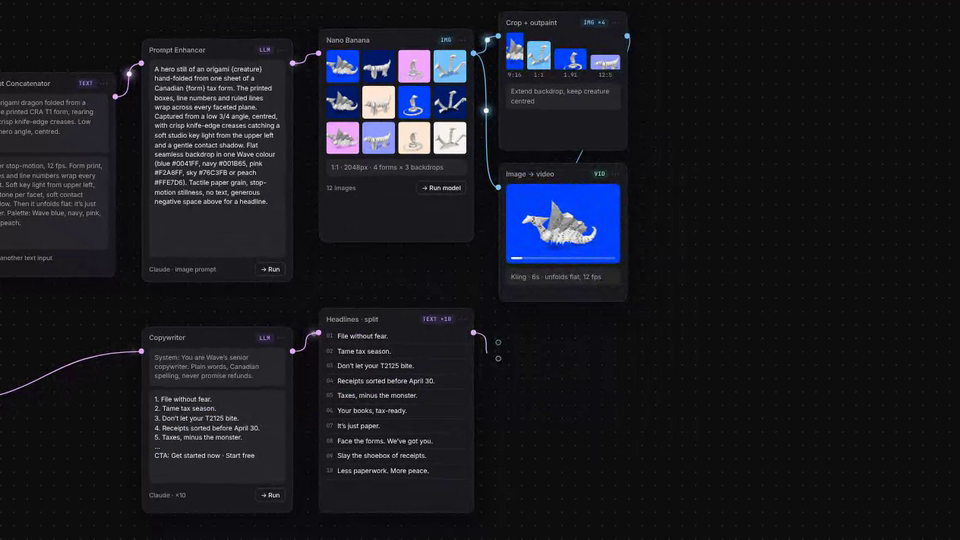
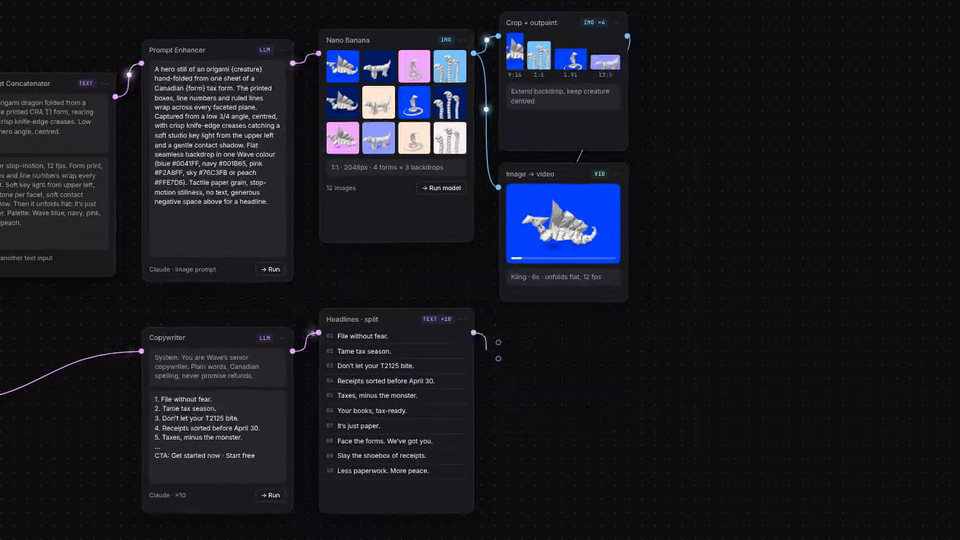
Wave Tax Weave Walkthrough: accent phrases, cobra heads, unfolding ad loops
Accent colour now covers each headline's closing phrase, balanced lines with
no widows; hydra is three cobra heads rising out of the frame; sharper dragon;
step labels removed and Figma Buzz renamed Figma; bigger reel dragon bleeding
off the right with the wordmark top right; every in-market ad pauses, unfolds
and pauses again.

Claude-Session: https://claude.ai/code/session_016rpgubrVaU6ENrPwrTuR8a

diff --git a/wave-tax-weave-walkthrough/index.html b/wave-tax-weave-walkthrough/index.html
@@ -136,7 +136,9 @@ html body nav.back:not(.sb-panel):not(:has(>div))>a,html body nav.back:not(.sb-p
 .ad img.art{position:absolute;left:50%;top:50%;transform:translate(-50%,-50%);display:block}
 .ad .wm{position:absolute;font-weight:800;letter-spacing:-.04em}
 .ad .h{position:absolute;font-family:var(--serif);font-weight:500;letter-spacing:-.025em;line-height:.96}
-.ad .h em{font-style:italic}
+.ad .h em{font-style:italic;white-space:nowrap}
+.ad .h{text-wrap:balance}
+.ad canvas.art{position:absolute;left:50%;top:50%;transform:translate(-50%,-50%);display:block}
 .ad .cta{position:absolute;font-weight:700;border-radius:999px;white-space:nowrap}
 
 /* ---------- 3 · Ads ---------- */
@@ -215,7 +217,6 @@ html body nav.back:not(.sb-panel):not(:has(>div))>a,html body nav.back:not(.sb-p
 
 <!-- 1 · Weave flow -->
 <section class="scene" id="s1">
-  <div class="cap"><b>01</b><span>Figma Weave · brief → prompts → images + copy → 480 assets</span></div>
   <div id="w1"><svg id="wires" width="1600" height="900"></svg></div>
 </section>
 
@@ -223,12 +224,12 @@ html body nav.back:not(.sb-panel):not(:has(>div))>a,html body nav.back:not(.sb-p
 <section class="scene" id="s2">
   <div class="fg-top"><div class="tools"><i></i><i></i><i></i><i></i></div><div class="file"><span>Wave Brand / </span>Tax Season 2027 · Paid Social</div><div class="av">KG</div><div class="share">Share</div></div>
   <div class="fg-l">
-    <div class="fg-sec"><h5>Pages <span>+</span></h5><div class="lay p">Cover</div><div class="lay p on">🔶 Buzz output · File without fear</div><div class="lay p">Templates</div><div class="lay p">Weave exports</div></div>
+    <div class="fg-sec"><h5>Pages <span>+</span></h5><div class="lay p">Cover</div><div class="lay p on">🔶 Output · File without fear</div><div class="lay p">Templates</div><div class="lay p">Weave exports</div></div>
     <div class="fg-sec" id="layers"><h5>Layers</h5></div>
   </div>
-  <div id="fgc"><div class="cap lt"><b>02</b><span>Figma Buzz · sheet × templates → every combination</span></div><div id="w2"></div></div>
+  <div id="fgc"><div id="w2"></div></div>
   <div class="fg-r">
-    <div class="fg-sec"><h5>Figma Buzz <span>Bulk create</span></h5>
+    <div class="fg-sec"><h5>Figma <span>Bulk create</span></h5>
       <div class="buzzrow">Data <b>wave_tax_weave.csv</b></div>
       <div class="buzzrow">Rows <b>12 art × 10 lines</b></div>
       <div class="buzzrow">Templates <b>4 placements</b></div>
@@ -246,7 +247,6 @@ html body nav.back:not(.sb-panel):not(:has(>div))>a,html body nav.back:not(.sb-p
 
 <!-- 3 · In market -->
 <section class="scene" id="s3">
-  <div class="cap lt"><b>03</b><span>In market · one variant per placement</span></div>
   <div class="s3copy"><div class="k" id="k3">Placement 1 / 4</div><h2 id="h3">Instagram Reel</h2><p id="p3"></p><dl id="dl3"></dl></div>
   <div class="tabs" id="tabs3"></div>
   <div class="mk" id="mk"></div>
@@ -311,11 +311,12 @@ function tube(f, v, w, wn, open = 0.86) {
   return V.add(f.p, V.add(V.mul(f.b, Math.cos(phi) * w), V.mul(f.n, Math.sin(phi) * (wn == null ? w : wn))));
 }
 const pleat = (i) => (i % 2 ? 1.07 : 0.93);
+const pleatX = (i) => (i % 2 ? 1.2 : 0.8);
 
 /* ---------- creatures ---------- */
 const CREATURES = {
   dragon: {
-    nu: 26, nv: 12, unfoldFrom: [1, 0.5],
+    nu: 26, nv: 8, unfoldFrom: [1, 0.5],
     init() {
       this.sp = spine([[-1.18, 1.18, 0.12], [-1.02, 1.24, 0.1], [-0.82, 1.05, 0.06], [-0.6, 0.66, 0.02], [-0.3, 0.42, 0], [0.12, 0.38, 0], [0.5, 0.3, -0.04], [0.86, 0.2, -0.02], [1.16, 0.3, 0.05], [1.26, 0.6, 0.1], [1.08, 0.74, 0.12]], [0, 0, 1]);
     },
@@ -327,8 +328,8 @@ const CREATURES = {
       return mix(0.18, 0.012, (u - 0.6) / 0.4);
     },
     pose(u, v, i, j, cu, cv) {
-      const sp = this.sp, wingU = cu > 0.32 && cu < 0.62, band = 0.22;
-      let w = this.width(u) * pleat(i);
+      const sp = this.sp, wingU = cu > 0.32 && cu < 0.62, band = 0.26;
+      let w = this.width(u) * pleatX(i);
       const f = sp.at(u);
       if (wingU && (cv < band || cv > 1 - band)) {
         const left = cv < band, a = left ? (band - v) / band : (v - (1 - band)) / band;
@@ -339,7 +340,7 @@ const CREATURES = {
         d = V.norm(d);
         const len = (1.22 - 0.5 * c) * (0.82 + 0.18 * Math.abs(Math.cos(c * Math.PI * 2.5)));
         let p = V.add(root, V.mul(d, a * len));
-        p = V.add(p, V.mul([0, 0, left ? 1 : -1], (i % 2 ? 0.06 : -0.03) * a)); // fan pleats
+        p = V.add(p, V.mul([0, 0, left ? 1 : -1], (i % 2 ? 0.13 : -0.07) * a)); // fan pleats, sharper
         return p;
       }
       let p = tube(f, v, w);
@@ -347,7 +348,7 @@ const CREATURES = {
       const ridge = 1 - Math.min(1, Math.abs(v - 0.5) / 0.09);
       if (ridge > 0 && j === this.nv / 2) {
         if (i === 3) p = V.add(p, V.add(V.mul(f.b, 0.24), V.mul(f.t, 0.2)));
-        else if (i > 7 && i < 22 && i % 2 === 0) p = V.add(p, V.mul(f.b, 0.12 * (1 - Math.abs(i - 14) / 10)));
+        else if (i > 7 && i < 22 && i % 2 === 0) p = V.add(p, V.mul(f.b, 0.2 * (1 - Math.abs(i - 14) / 12)));
       }
       if (i === 0) p = V.add(p, V.mul(f.t, -0.08)); // pointed snout
       return p;
@@ -382,29 +383,18 @@ const CREATURES = {
   hydra: {
     nu: 26, nv: 15, unfoldFrom: [1, 0.5],
     init() {
-      this.necks = [
-        spine([[-1.08, 1.02, 0.42], [-0.92, 1.12, 0.3], [-0.78, 0.92, 0.2], [-0.56, 0.62, 0.12], [-0.3, 0.4, 0.06]], [0, 0, 1]),
-        spine([[0.14, 1.62, 0.5], [0.06, 1.6, 0.32], [0.02, 1.3, 0.16], [0.04, 0.85, 0.05], [0.02, 0.5, -0.02]], [1, 0, 0]),
-        spine([[1.1, 1.0, 0.4], [0.96, 1.1, 0.28], [0.8, 0.88, 0.16], [0.58, 0.6, 0.06], [0.32, 0.4, 0.02]], [0, 0, 1]),
-      ];
+      // three cobra heads facing left; their bodies run straight down off the bottom of the frame
+      const neck = (x, y, z, lean) => spine([[x - 0.16, y + 0.02, z], [x, y + 0.07, z], [x + 0.14, y - 0.08, z], [x + 0.2 + lean, y - 0.45, z], [x + 0.14 + lean, y - 0.95, z], [x + 0.2 + lean, -0.9, z]], [0, 0, 1]);
+      this.necks = [neck(-0.95, 1.05, 0.25, 0.05), neck(-0.2, 1.5, 0, -0.04), neck(0.55, 1.12, -0.25, 0.06)];
     },
     pose(u, v, i, j, cu, cv) {
-      const split = 0.58;
-      if (cu < split) {
-        const k = Math.min(2, Math.floor(cv * 3)), vv = clamp((v - k / 3) * 3), s = clamp(u / split);
-        const f = this.necks[k].at(s);
-        let w = (s < 0.06 ? mix(0.03, 0.1, s / 0.06) : s < 0.18 ? 0.105 : mix(0.075, 0.11, (s - 0.18) / 0.82)) * pleat(i);
-        let p = tube(f, vv, w, w, 0.84);
-        const jj = j - k * 5;
-        if (i === 3 && jj === 2) p = V.add(p, V.add(V.mul(f.b, 0.18), V.mul(f.t, 0.16)));
-        if (i === 0) p = V.add(p, V.mul(f.t, -0.06));
-        return p;
-      }
-      // body: a pleated mound behind the necks
-      const a = (u - split) / (1 - split), x = (v - 0.5) * 1.55;
-      const h = 0.48 * Math.pow(Math.sin(Math.PI * clamp(v * 0.9 + 0.05)), 0.7) * (1 - a * 0.75);
-      const pl = (i % 2 ? 0.05 : -0.04) * (1 - a);
-      return [x * (1 - 0.15 * a), h + pl, 0.02 - a * 0.85];
+      const k = Math.min(2, Math.floor(cv * 3)), vv = clamp((v - k / 3) * 3), s = u;
+      const f = this.necks[k].at(s);
+      const hood = s > 0.06 && s < 0.26 ? mix(0.11, 0.24, Math.sin(((s - 0.06) / 0.2) * Math.PI)) : 0;
+      let w = (s < 0.05 ? mix(0.035, 0.1, s / 0.05) : s < 0.3 ? 0.1 : 0.12) * pleatX(i);
+      let p = tube(f, vv, Math.max(w, hood), w, 0.84);
+      if (i === 0) p = V.add(p, V.mul(f.t, -0.07));
+      return p;
     },
   },
   tiger: {
@@ -689,27 +679,28 @@ function liveScene(cv,a,extra){return new Origami.Scene(cv,Object.assign(OPT(a),
 function unfoldK(t,hold,dur){return clamp((Math.floor(t*12)/12-hold)/dur);}
 
 /* campaign copy */
-const HEADR=['File without *fear*.','Tame tax *season*.','Don’t let your T2125 *bite*.','Receipts sorted before *April 30*.','Taxes, minus the *monster*.','Your books, *tax-ready*.','It’s just *paper*.','Face the forms. We’ve *got you*.','Slay the shoebox of *receipts*.','Less paperwork. More *peace*.'];
-const HEAD=HEADR.map(h=>h.replace(/\*/g,''));
+const HEADR=['File without *fear.*','Tame tax *season.*','Don’t let your T2125 *bite.*','Receipts sorted before *April 30.*','Taxes, minus the *monster.*','Your books, *tax‑ready.*','It’s just *paper.*','Face the forms. *We’ve got you.*','Slay the shoebox of *receipts.*','Less paperwork. *More peace.*'];
+const HEAD=HEADR.map(h=>h.replace(/\*/g,'').replace(/‑/g,'-'));
 const rich=(h,c)=>h.replace(/\*([^*]+)\*/g,`<em style="color:${c}">$1</em>`);
 const CTA=['Get tax-ready','Get tax-ready','Start free','Get tax-ready','Start free','Learn more','Learn more','Start free','Get tax-ready','Learn more'];
 
 /* ad template: fills a box of w×h with art, headline, wordmark and CTA */
-function adHTML(ai,hi,w,h){
+function adHTML(ai,hi,w,h,live){
+  const IMG=(st,aw)=>live?`<canvas class="art" data-live="${ai}" style="${st};height:${aw/1.3}px"></canvas>`:`<img class="art" data-art="${ai}" src="${ART[ai].src}" style="${st}">`;
   const a=ART[ai],r=w/h,fg=a.dark?'#fff':'#001b65',em=a.dark?'#e8aaff':'#0041ff',ctaBg=a.dark?'#e8aaff':'#0041ff',ctaFg=a.dark?'#001b65':'#fff',H=rich(HEADR[hi],em);
   const u=Math.min(w,h);let s='';
   if(r<.8){ // vertical 9:16
-    const aw=w*1.3;s+=`<img class="art" data-art="${ai}" src="${a.src}" style="width:${aw}px;top:${h*.6}px">`;
-    s+=`<div class="wm" style="left:${w*.08}px;top:${w*.08}px;font-size:${w*.085}px;color:${fg}">wave</div>`;
+    const aw=w*1.3;s+=IMG(`width:${aw}px;top:${h*.6}px;left:${w*.56}px`,aw);
+    s+=`<div class="wm" style="right:${w*.08}px;top:${w*.08}px;font-size:${w*.085}px;color:${fg}">wave</div>`;
     s+=`<div class="h" style="left:${w*.08}px;right:${w*.08}px;top:${h*.14}px;font-size:${w*.125}px;color:${fg}">${H}</div>`;
     s+=`<div class="cta" style="left:${w*.08}px;bottom:${h*.05}px;font-size:${w*.055}px;padding:${w*.035}px ${w*.06}px;background:${ctaBg};color:${ctaFg}">${CTA[hi]}</div>`;
   }else if(r<1.3){ // square
-    s+=`<img class="art" data-art="${ai}" src="${a.src}" style="width:${w*1.25}px;top:${h*.63}px;left:${w*.52}px">`;
+    s+=IMG(`width:${w*1.35}px;top:${h*.62}px;left:${w*.6}px`,w*1.35);
     s+=`<div class="wm" style="right:${w*.07}px;top:${w*.07}px;font-size:${w*.06}px;color:${fg}">wave</div>`;
     s+=`<div class="h" style="left:${w*.07}px;width:${w*.66}px;top:${w*.07}px;font-size:${w*.085}px;color:${fg}">${H}</div>`;
     s+=`<div class="cta" style="left:${w*.07}px;bottom:${w*.07}px;font-size:${w*.038}px;padding:${w*.025}px ${w*.045}px;background:${ctaBg};color:${ctaFg}">${CTA[hi]}</div>`;
   }else{ // wide 1.91 / 12:5
-    s+=`<img class="art" data-art="${ai}" src="${a.src}" style="width:${h*1.75}px;left:${w*.73}px;top:${h*.5}px">`;
+    s+=IMG(`width:${h*1.9}px;left:${w*.75}px;top:${h*.52}px`,h*1.9);
     s+=`<div class="wm" style="left:${h*.1}px;top:${h*.1}px;font-size:${h*.1}px;color:${fg}">wave</div>`;
     s+=`<div class="h" style="left:${h*.1}px;width:${w*.48}px;top:${h*.3}px;font-size:${h*(r>2.2?.15:.13)}px;color:${fg}">${H}</div>`;
     s+=`<div class="cta" style="left:${h*.1}px;bottom:${h*.1}px;font-size:${h*.065}px;padding:${h*.04}px ${h*.075}px;background:${ctaBg};color:${ctaFg}">${CTA[hi]}</div>`;
@@ -740,7 +731,7 @@ const NODES={
   rs:{x:1160,y:52,w:208,h:224,t:'Crop + outpaint',tag:'IMG ×4',ti:'img',html:'<div class="sizes" id="sizes"></div><div class="field dim" style="margin-top:9px;padding:6px 8px">Extend backdrop, keep creature centred</div>'},
   vid:{x:1160,y:296,w:208,h:224,t:'Image → video',tag:'VID',ti:'vid',html:'<div class="vbox" id="vid"><canvas></canvas><div class="bar"><i></i></div></div><div class="field dim" style="margin-top:8px;padding:6px 8px">Kling · 6s · unfolds flat, 12 fps</div>'},
   sheet:{x:1160,y:546,w:208,h:314,t:'Export → sheet',tag:'CSV',html:'<table class="sheet" id="sheet"></table>'},
-  buzz:{x:1400,y:250,w:176,h:340,t:'Send to Figma',tag:'BUZZ',html:'<div class="buzz"><div class="fig"><span class="figlogo"><i style="background:#f24e1e;border-radius:6px 0 0 6px"></i><i style="background:#ff7262;border-radius:0 6px 6px 0"></i><i style="background:#a259ff;border-radius:6px 0 0 6px"></i><i style="background:#1abcfe;border-radius:50%"></i><i style="background:#0acf83;border-radius:6px 0 6px 6px"></i></span>Figma Buzz</div><div class="big" id="bigc">0</div><div class="sub">ad variants queued</div><div class="mult"><b>12</b> images<br>× <b>10</b> headlines<br>× <b>4</b> placements<br>= <b>480</b> assets</div><div class="run" style="margin-top:12px"><span></span><b class="go">Generate</b></div></div>'}
+  buzz:{x:1400,y:250,w:176,h:340,t:'Send to Figma',tag:'FIGMA',html:'<div class="buzz"><div class="fig"><span class="figlogo"><i style="background:#f24e1e;border-radius:6px 0 0 6px"></i><i style="background:#ff7262;border-radius:0 6px 6px 0"></i><i style="background:#a259ff;border-radius:6px 0 0 6px"></i><i style="background:#1abcfe;border-radius:50%"></i><i style="background:#0acf83;border-radius:6px 0 6px 6px"></i></span>Figma</div><div class="big" id="bigc">0</div><div class="sub">ad variants queued</div><div class="mult"><b>12</b> images<br>× <b>10</b> headlines<br>× <b>4</b> placements<br>= <b>480</b> assets</div><div class="run" style="margin-top:12px"><span></span><b class="go">Generate</b></div></div>'}
 };
 // ports: [from,to,type,toSlot]
 const LINKS=[['subj','cat','t',0],['art','cat','t',1],['cam','cat','t',2],['pal','cat','t',3],['crea','cat','t',4],['cat','enh','t',0],['enh','nano','t',0],['brief','copy','t',0],['copy','hl','t',0],['nano','rs','img',0],['nano','vid','img',0],['rs','sheet','img',0],['hl','sheet','t',1],['sheet','buzz','t',0],['vid','buzz','vid',1]];
@@ -849,7 +840,7 @@ function scene2(t){
 const mk=$('#mk');
 const PL=[
  {name:'Instagram Reel',k:'9:16 · 1080×1920 · 6s loop',art:0,hl:0,
-  p:'Weave’s image-to-video pass folds the T1 dragon open at 12 fps until it’s just paper. Headline and CTA are bound by Buzz, so each of the 120 reels ships as its own variant.',
+  p:'Weave’s image-to-video pass folds the T1 dragon open at 12 fps until it’s just paper. Headline and CTA are bound in Figma, so each of the 120 reels ships as its own variant.',
   dl:[['Variant','reel-dragon-blue-01'],['Headline','File without fear.'],['Caption','That T1 looks a lot scarier folded up. Wave keeps your books organized all year, so when the CRA comes calling, it’s just paper.'],['CTA','Get started now']]},
  {name:'Facebook feed',k:'1:1 · 1080×1080',art:1,hl:1,
   p:'The paper tiger, folded from a Notice of Assessment, carries the most playful line in the set. Same template, same binding, swapped by row in the sheet.',
@@ -868,18 +859,18 @@ const reel=el('div','',`<div class="phone"><div class="scr"><div class="ad" id="
 <div class="reel-cap">That T1 looks a lot scarier folded up. Wave keeps your books organized all year, so when the CRA comes calling, it’s just paper.</div>
 <div class="reel-cta"><span>Get started now</span><span>›</span></div></div><div class="reel-prog"><i></i></div></div></div>`,mk);
 const reelAd=reel.querySelector('#reelad');
-reelAd.innerHTML=`<div class="ad" style="background:${ART[0].bg}"><canvas class="live" style="top:300px;height:420px"></canvas><div class="wm" style="left:22px;top:92px;font-size:24px;color:#fff">wave</div><div class="h" id="reelh" style="left:22px;right:30px;top:130px;font-size:60px;color:#fff"></div></div>`;
+reelAd.innerHTML=`<div class="ad" style="background:${ART[0].bg}"><canvas class="live" style="top:250px;height:520px;left:-4%;width:150%"></canvas><div class="wm" style="right:24px;top:96px;font-size:24px;color:#fff">wave</div><div class="h" id="reelh" style="left:34px;right:30px;top:132px;font-size:60px;color:#fff"></div></div>`;
 const reelCv=reelAd.querySelector('canvas'),reelH=reelAd.querySelector('#reelh'),reelProg=reel.querySelector('.reel-prog i');let reelScene=null;
 // 2 facebook
 const fb=el('div','',`<div class="card fb"><div class="c-head"><div class="lg">w</div><div>Wave<small>Sponsored · 🌐</small></div><span class="dots">···</span></div>
 <div class="c-txt">Every receipt in one place, every expense categorized. Get your books tax-ready before April 30 with Wave’s free accounting software. 🧾</div>
-<div class="c-img" style="height:520px">${adHTML(1,1,520,520)}</div>
+<div class="c-img" style="height:520px">${adHTML(1,1,520,520,1)}</div>
 <div class="c-foot"><div><span class="u">waveapps.com</span><b>Tame tax season with Wave</b></div><span class="btn">Get tax-ready</span></div>
 <div class="c-react"><span><i></i><i></i>1.1K</span><span>84 comments · 52 shares</span></div><div class="c-acts"><span>👍 Like</span><span>💬 Comment</span><span>↗ Share</span></div></div>`,mk);
 // 3 linkedin
 const li=el('div','',`<div class="card li"><div class="c-head"><div class="lg">w</div><div>Wave Financial<small>48,210 followers<br>Promoted</small></div><span class="dots">···</span></div>
 <div class="c-txt" style="font-size:14.5px">Self-employed in Canada? Wave turns a year of invoices and receipts into tax-ready reports your accountant will actually thank you for.</div>
-<div class="c-img" style="height:293px">${adHTML(2,5,560,293)}</div>
+<div class="c-img" style="height:293px">${adHTML(2,5,560,293,1)}</div>
 <div class="c-foot"><div><b style="font-size:15px;margin:0">Your books, tax-ready.</b><span class="u" style="text-transform:none">waveapps.com</span></div><span class="btn">Learn more</span></div>
 <div class="c-react"><span><i></i><i></i>612</span><span>38 comments · 21 reposts</span></div><div class="c-acts"><span>Like</span><span>Comment</span><span>Repost</span><span>Send</span></div></div>`,mk);
 // 4 article
@@ -887,13 +878,14 @@ const art=el('div','',`<div class="artc" style="position:relative"><div class="a
 <div class="art-in" id="artin"><div class="kick">Tax season</div><h3>Five tax-season mistakes Canadian freelancers still make</h3><div class="by">By Maya Chen · 6 min read</div>
 <p>The deadline for most self-employed Canadians to file is June 15, but any balance owing is still due April 30. Mixing those two dates up is the most expensive mistake on this list.</p>
 <p>The second is the shoebox. A year of paper receipts sorted in a single weekend is how home office and vehicle expenses get missed, and missed expenses are money left on the table.</p>
-<div class="inl"><small>Advertisement</small><div class="box">${adHTML(3,2,600,250)}</div></div>
+<div class="inl"><small>Advertisement</small><div class="box">${adHTML(3,2,600,250,1)}</div></div>
 <p>Third, treating the T2125 as an afterthought. The Statement of Business or Professional Activities is where your income and expenses meet, and it is far easier to fill in from tidy books.</p>
 <p>Fourth, forgetting instalments. If you owed more than $3,000 last year, the CRA may expect quarterly payments.</p></div></div>`,mk);
 const artIn=art.querySelector('#artin');
 const MOCKS=[reel,fb,li,art];
 const tabs3=$('#tabs3');const tabEls=PL.map(p=>el('div','',p.name+'<i></i>',tabs3));
-const SEG=4.2;
+const SEG=6.4,BEAT=1.0,UNF=2.8; // folded beat, unfold, flat beat, out
+const liveAds=MOCKS.map(m=>{const c=m.querySelector('canvas[data-live]');return c?{c,a:ART[+c.dataset.live],sc:null}:null;});
 let cur3=-1;
 function scene3(t){
   const i=Math.min(3,Math.floor(t/SEG)),lt=t-i*SEG;
@@ -905,9 +897,10 @@ function scene3(t){
     const a=E(lt,0,.6),b=E(lt,SEG-.4,SEG);
     m.style.opacity=a*(1-b);m.style.transform=`translateY(${(1-a)*60-b*40}px) scale(${.96+.04*a})`;
   });
-  if(i===0){if(!reelScene)reelScene=liveScene(reelCv,ART[0],{cy:.5,fov:.9});const f=Math.floor(lt*12);if(reelCv._f!==f){reelCv._f=f;reelScene.draw(unfoldK(lt,1.2,2.4),f);}
+  if(i===0){if(!reelScene)reelScene=liveScene(reelCv,ART[0],{cx:.47,cy:.47,fov:1,zoom:1.18,flatDist:1.15});const f=Math.floor(lt*12);if(reelCv._f!==f){reelCv._f=f;reelScene.draw(unfoldK(lt,BEAT,UNF),f);}
     const words=HEADR[0].split(' '),nw=Math.floor(P(lt,.4,1.4)*words.length+.001);reelH.innerHTML=rich(words.slice(0,Math.max(0,nw)).join(' '),'#e8aaff');reelProg.style.width=(lt/SEG*100)+'%';}
-  if(i===3){artIn.style.transform=`translateY(${-E(lt,.6,2.4)*210}px)`;}
+  const L=liveAds[i];if(L){if(!L.sc)L.sc=liveScene(L.c,L.a);const f=Math.floor(lt*12);if(L.c._f!==f){L.c._f=f;L.sc.draw(unfoldK(lt,BEAT,UNF),f);}}
+  if(i===3){artIn.style.transform=`translateY(${-E(lt,.2,1)*210}px)`;}
 }
 
 /* =====================================================================
